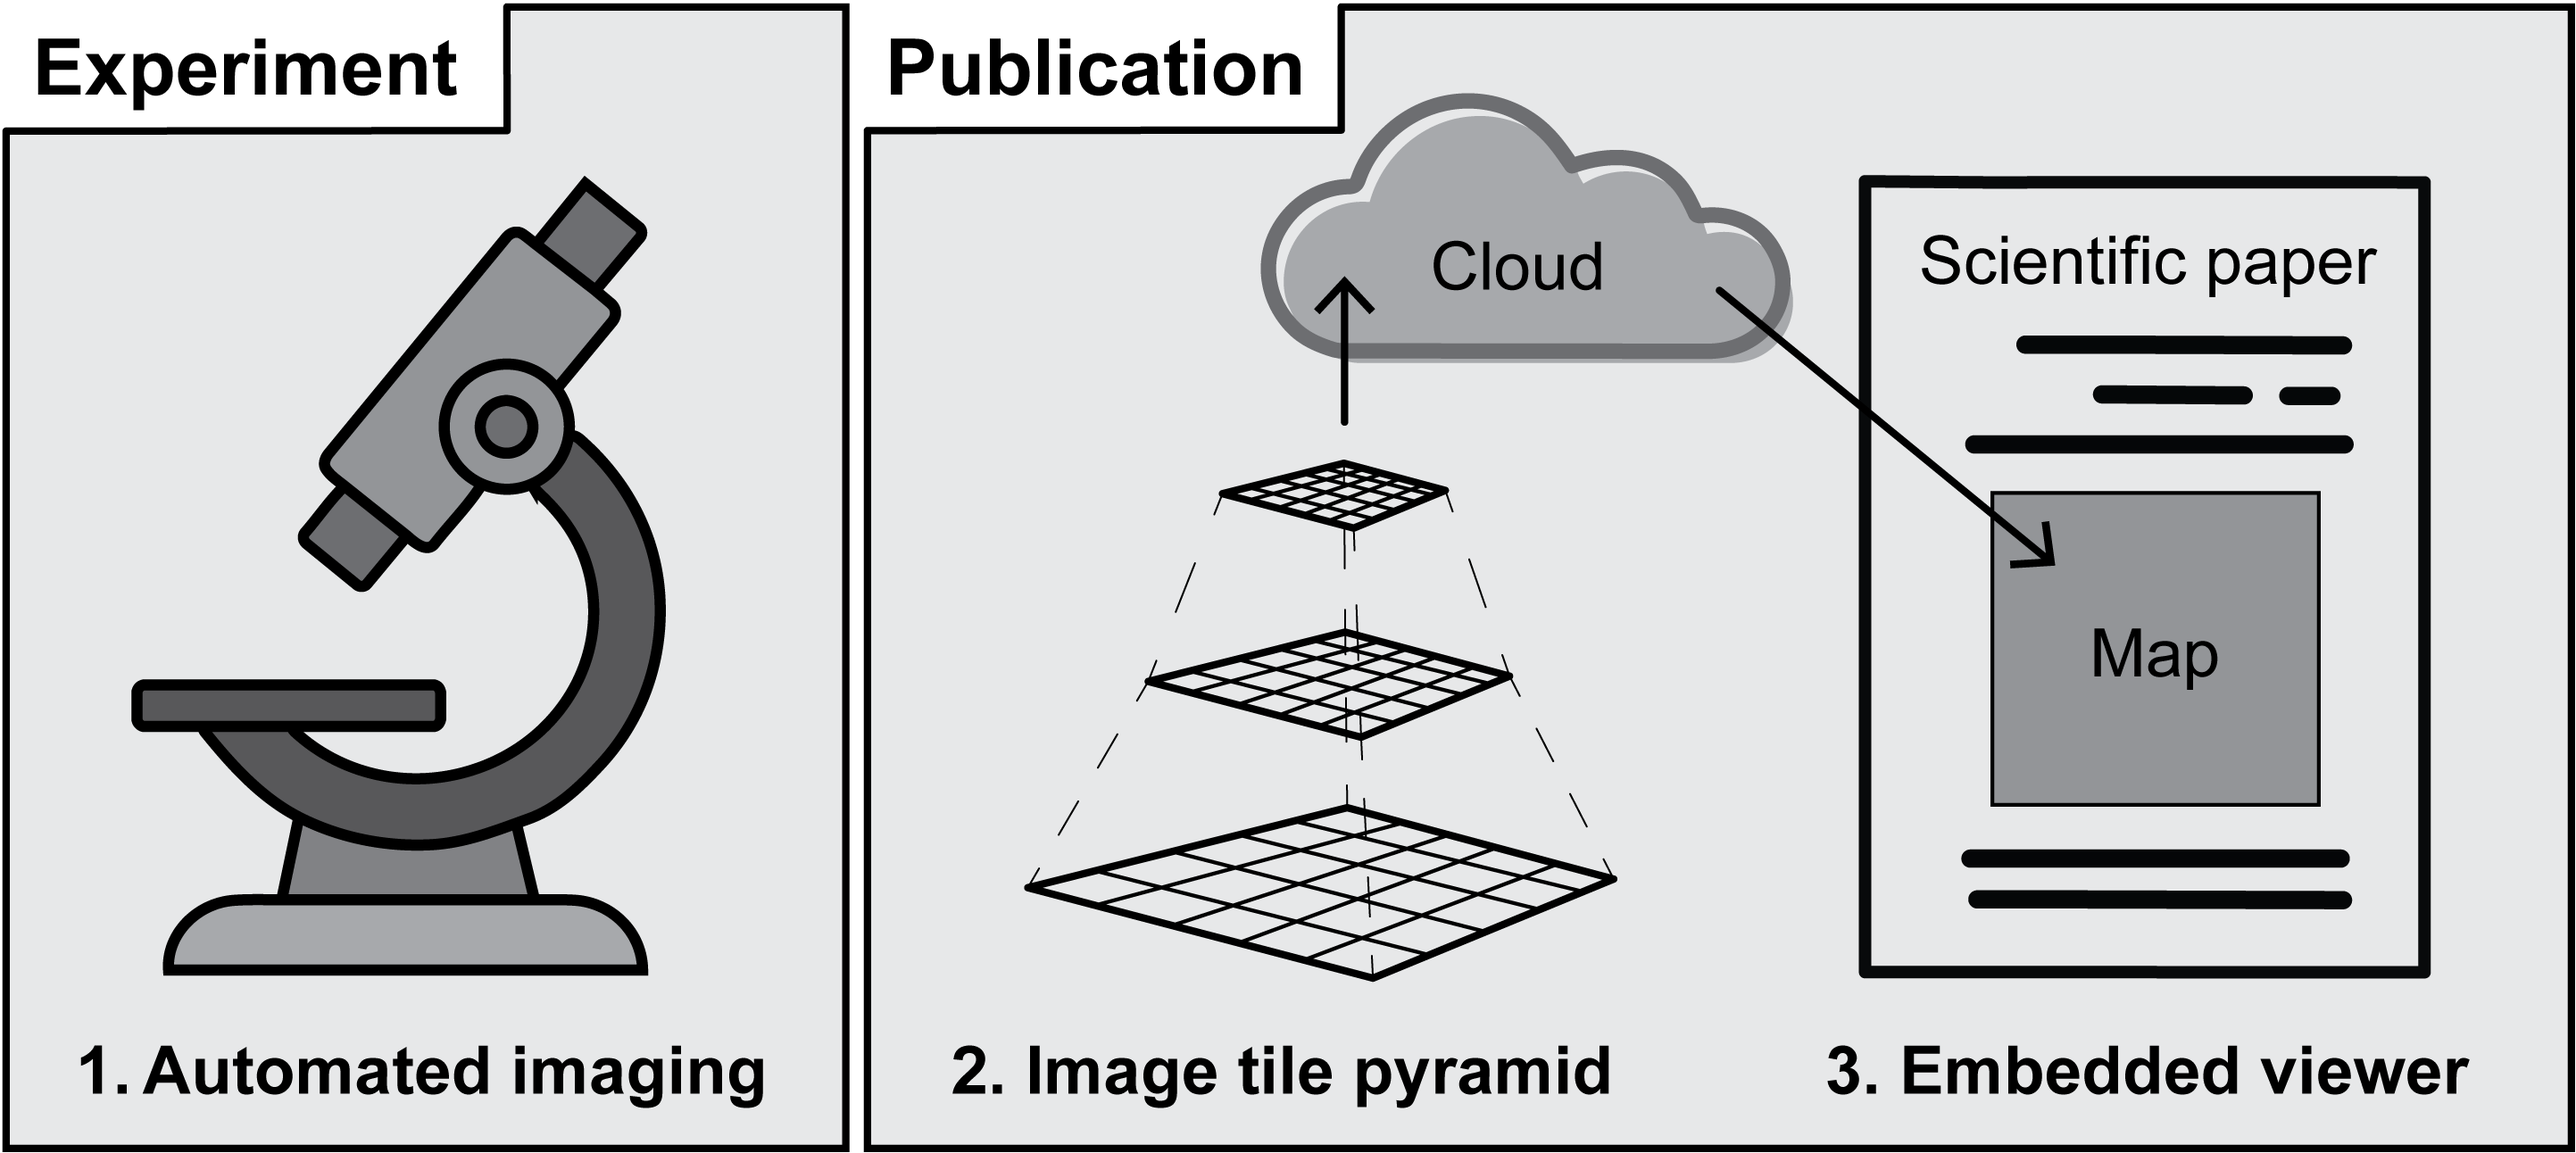
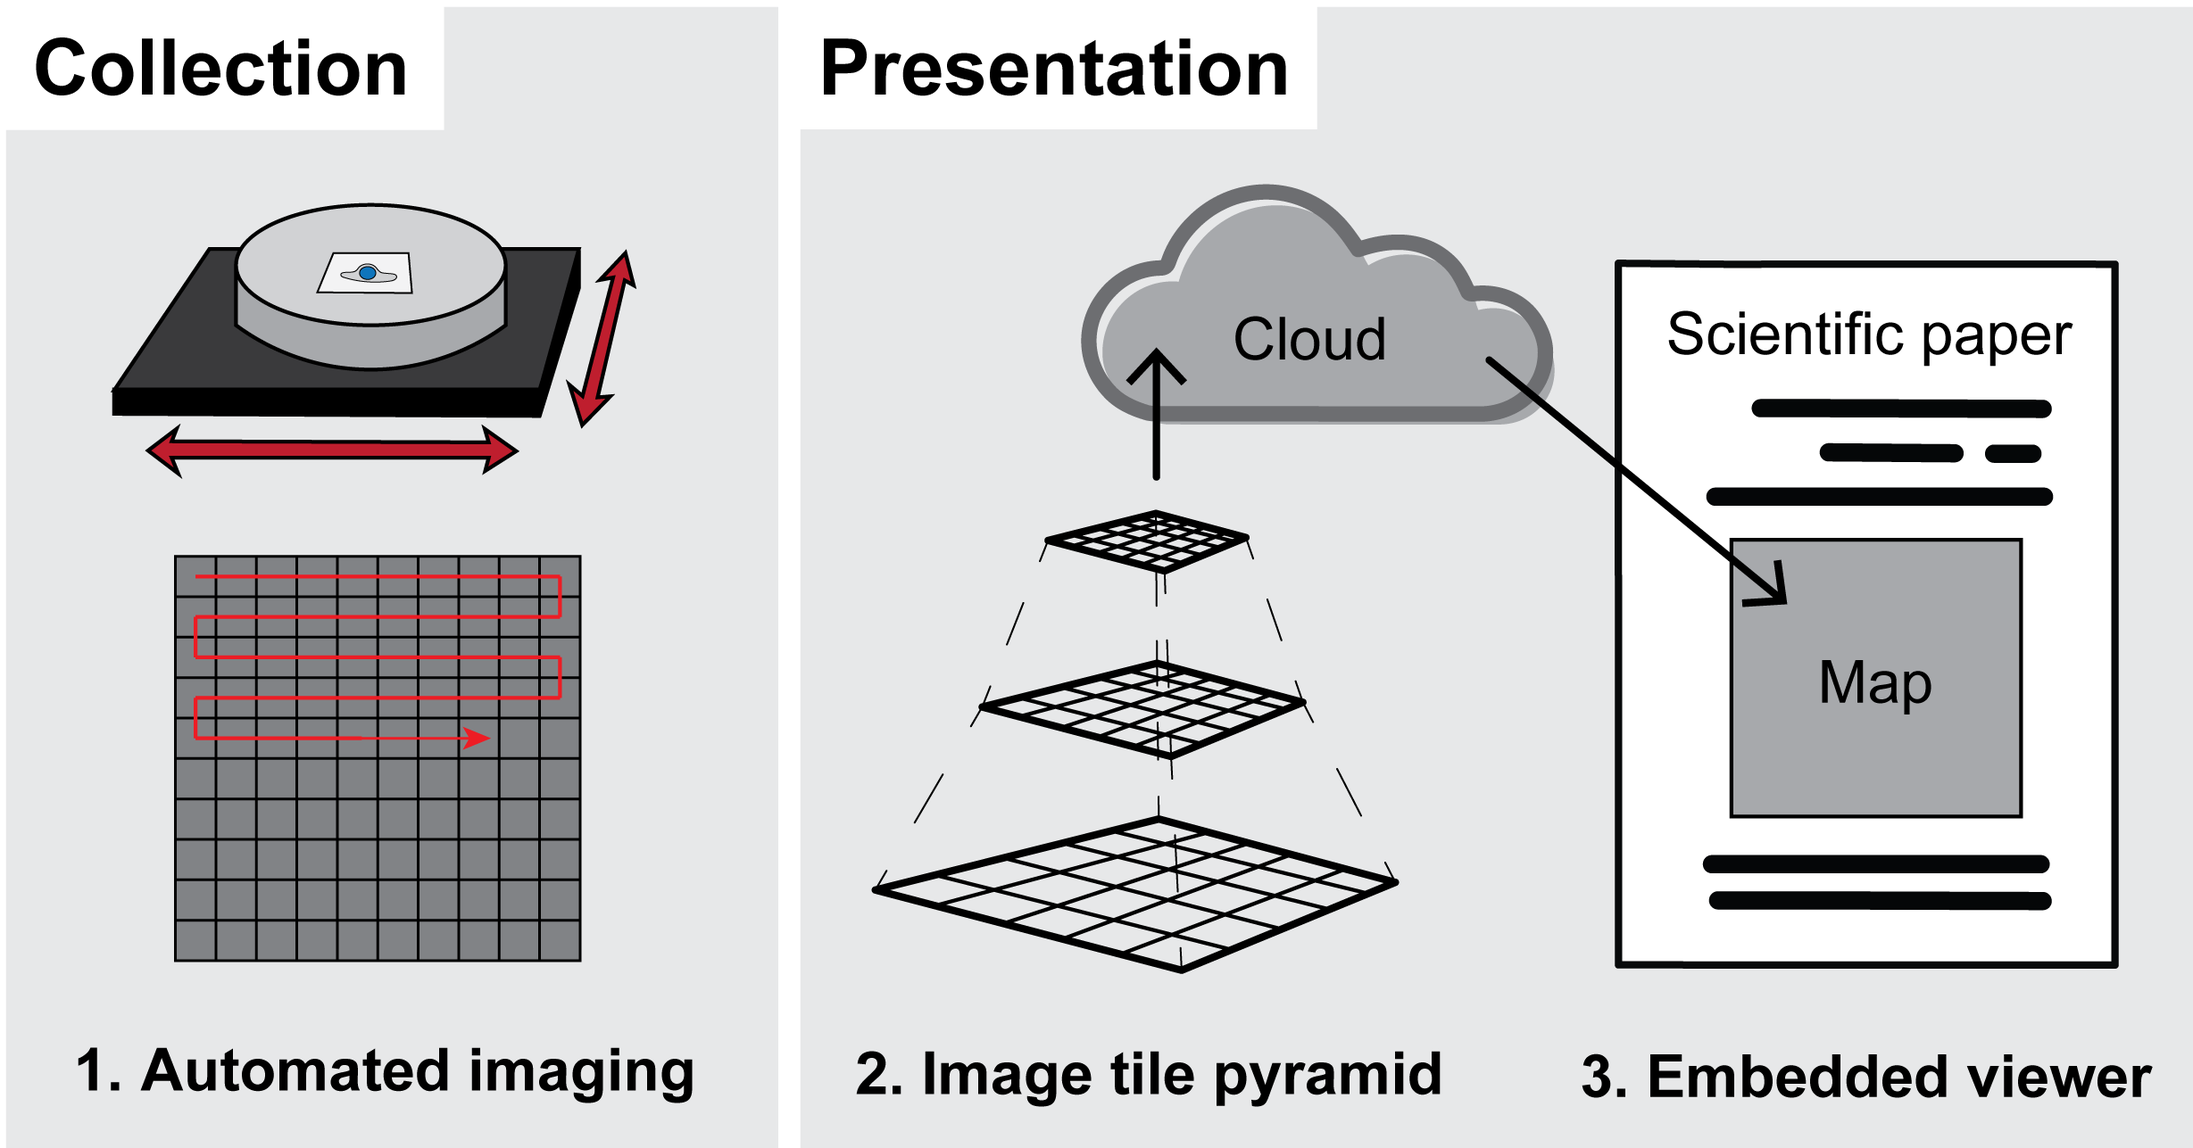
changed virtual microscopy figure and some edits

diff --git a/02_approach.md b/02_approach.md
@@ -17,10 +17,13 @@ Our approach involved automated image acquisition, multi-scale [pyramid](<wiki:P
 
 ```{figure} ./figures/Virtual_microscopy.png
 :label: abstract
-Cloud-based virtual microscopy. 1. Automated image acquisition with any suitable microscope. 2. Reformat data to a pyramidal format like DZI or OME-Zarr and host online. 3) As readers interact with embedded microscopy maps, image tiles or data chunks are retrieved from cloud storage.
+Cloud-based virtual microscopy. 1. Automated image acquisition with any suitable microscope. 2. Stitch and reformat to pyramidal DZI or OME-Zarr and host online. 3) As readers interact with embedded microscopy maps, image tiles or data chunks are retrieved from cloud storage.
 ```
 
-The Elemental Microscopy journal supports two interactive viewers; [Vizarr](https://github.com/hms-dbmi/vizarr) [@doi:10.1038/s41592-022-01482-7] and [OpenSeadragon](https://openseadragon.github.io/), enabling two alternative methods of cloud-based virtual microscopy.
+Elemental Microscopy supports two interactive viewers; [Vizarr](https://github.com/hms-dbmi/vizarr) [@doi:10.1038/s41592-022-01482-7] and [OpenSeadragon](https://openseadragon.github.io/), enabling two alternative methods of virtual microscopy with OME-Zarr or Deep Zoom.
+Authors can also build custom viewers.
+Brodrick developed [microATLAS](https://github.com/LadInTheLab/microATLAS-widget), the OME-Zarr viewer used in this article.
+[Vizarr](#vizarr), [OpenSeadragon](#openseadragon) and [microATLAS](#microatlas) are readily embeddable with the `:::{any:bundle}` directive.
 
 ## OME-Zarr
 
@@ -30,8 +33,6 @@ It is a chunked file type that can support multiple resolution levels.
 Considered an advanced implementation of microscopy maps [@doi:10.1242/jcs.262198], pyramidal OME-Zarr data can be viewed online [@doi:10.1038/s41592-022-01482-7].
 
 ### Vizarr
-
-OME-Zarr can be viewed with [Vizarr](https://github.com/hms-dbmi/vizarr) [@doi:10.1038/s41592-022-01482-7] using the `:::{any:bundle}` directive.
 
 ```{code}
 :label: vizarr
@@ -47,12 +48,9 @@ OME-Zarr can be viewed with [Vizarr](https://github.com/hms-dbmi/vizarr) [@doi:1
 
 ### microATLAS
 
-Brodrick developed [microATLAS](https://github.com/LadInTheLab/microATLAS-widget), an embeddable custom OME-Zarr viewer based on Viv [@doi:10.1038/s41592-022-01482-7].
-To readily embed microATLAS in Elemental Microscopy, use this [builder](https://ladinthelab.github.io/microATLAS-widget/builder.html).
-
 ```{code}
 :label: microatlas
-:caption: Example markdown to embed microATLAS in Elemental Microscopy. Create your own with the builder.
+:caption: Example markdown to embed microATLAS in Elemental Microscopy. Create your own with the [builder](https://ladinthelab.github.io/microATLAS-widget/builder.html).
 :::{any:bundle} https://ladinthelab.github.io/microATLAS-widget/widget.js
 {
   "source": "https://your-bucket.s3.amazonaws.com/sample.zarr/",
@@ -71,11 +69,13 @@ To readily embed microATLAS in Elemental Microscopy, use this [builder](https://
 :::
 ```
 
-## OpenSeadragon
+## Deep Zoom
 
 A free and open-source solution, described elsewhere [@doi:10.1242/jcs.262198], is now embeddable in Elemental Microscopy.
 Pyramidal Deep Zoom image (DZI) data hosted on Github Pages is streamed to the [OpenSeadragon](https://openseadragon.github.io/) viewer.
 By default, readers cannot control dimensions like channels or time, so it is best suited for single-channel or composite images like NucleusNet.
+
+### OpenSeadragon
 
 ```{code}
 :label: openseadragon

diff --git a/00_index.md b/00_index.md
@@ -7,12 +7,11 @@ numbering:
 
 +++ {"part": "abstract"}
 
-Static figures are the mainstream interface of contemporary scientific discourse and peer review.
-Microscopists often communicate experimental results as representative images and plots.
+Static figures are the mainstream interface of contemporary scientific discourse and peer review, so microscopists communicate experimental results through representative images and plots.
 This article focuses on novel visualization strategies for researchers, advancing virtual microscopy to the scientific literature.
 Web-based microscopy maps improve the transparency, accessibility, and archival of bioimaging data as an unbiased alternative to representative images.
-These features made virtual microscopy useful to evaluate the replicability of representative images.
-In replication experiments, original claims of reovirus-induced organelle remodelling were not reliably observed, but this interpretation is open to scrutiny.
+These features made virtual microscopy useful for the critical appraisal of representative images.
+Using this approach, an original claim of reovirus-induced organelle remodeling was unsubstantiated in replication experiments.
 To work within the constraints of conventional journals, an objective method of image selection was explored and delimited.
 
 +++

diff --git a/12_discussion.md b/12_discussion.md
@@ -32,7 +32,7 @@ The original study showed apparent ER remodelling in reovirus-infected cells exp
 In replication attempts, ER remodelling can be observed in transfected cells expressing mCherry-KDEL in the absence of reovirus.
 This suggests that experimental artifacts from mCherry-ER reporters could have been misinterpreted as an outcome of infection.
 Otherwise, it is not clear that reovirus affects ER morphology, certainly not to the extent of fragmentation, collapse, and aggregation as originally described.
-This conclusion challenges the claim of reovirus-induced ER remodelling [@doi:10.1128/mBio.01253-18], but it is uniquely open to scrutiny.
+This conclusion challenges the claim of reovirus-induced ER remodelling [@doi:10.1128/mBio.01253-18], but it is uniquely open to scrutiny with virtual microscopy.
 
 There are at least ten examples of objective representative image selection [@doi:10.1109/BIP60195.2023.10379342], yet representativeness remains undefined, so the task is unsuitable for computers.
-To this end, a future direction is image categorization with an upstream classifier model.
+To this end, an interesting future direction could be image categorization with an upstream classifier model.
